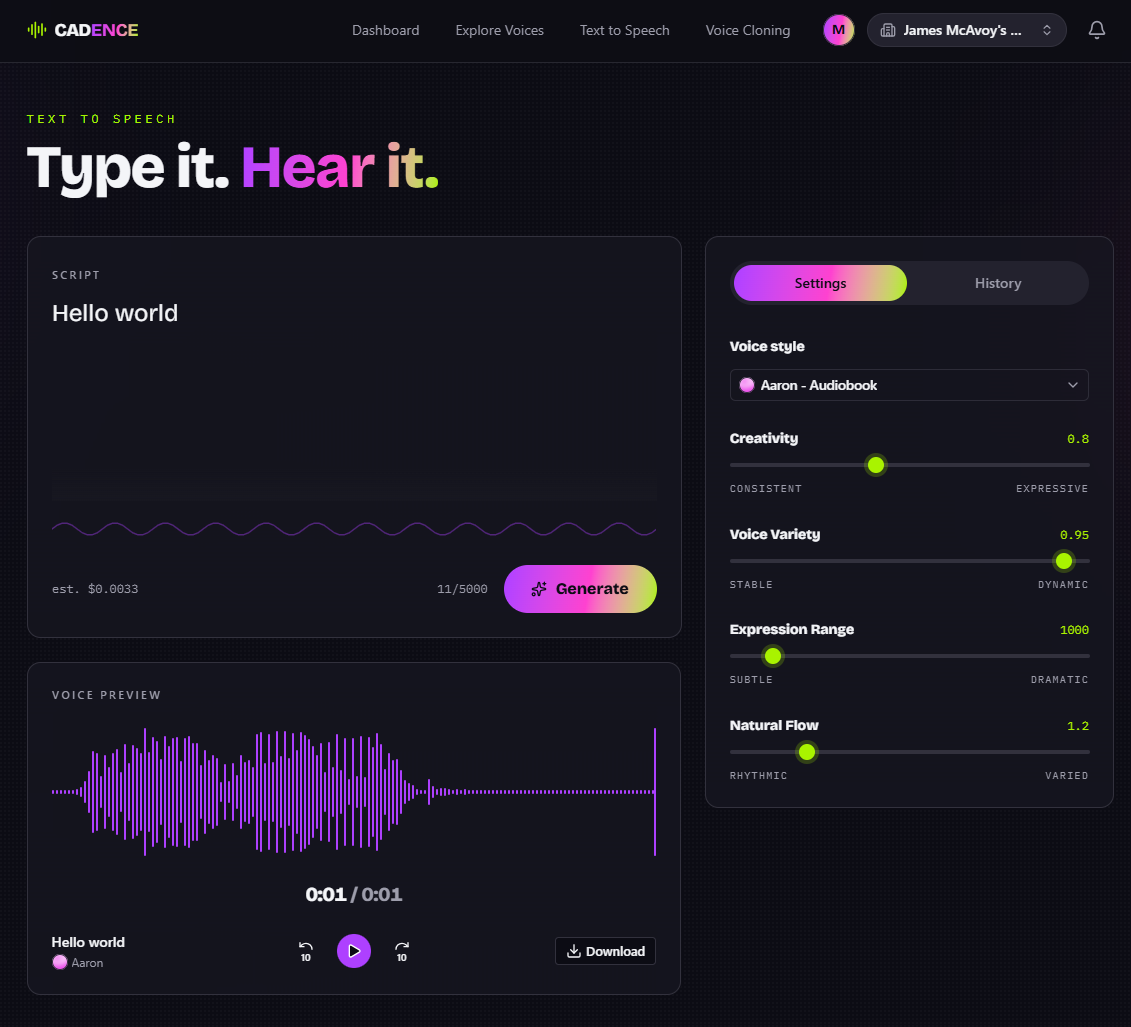
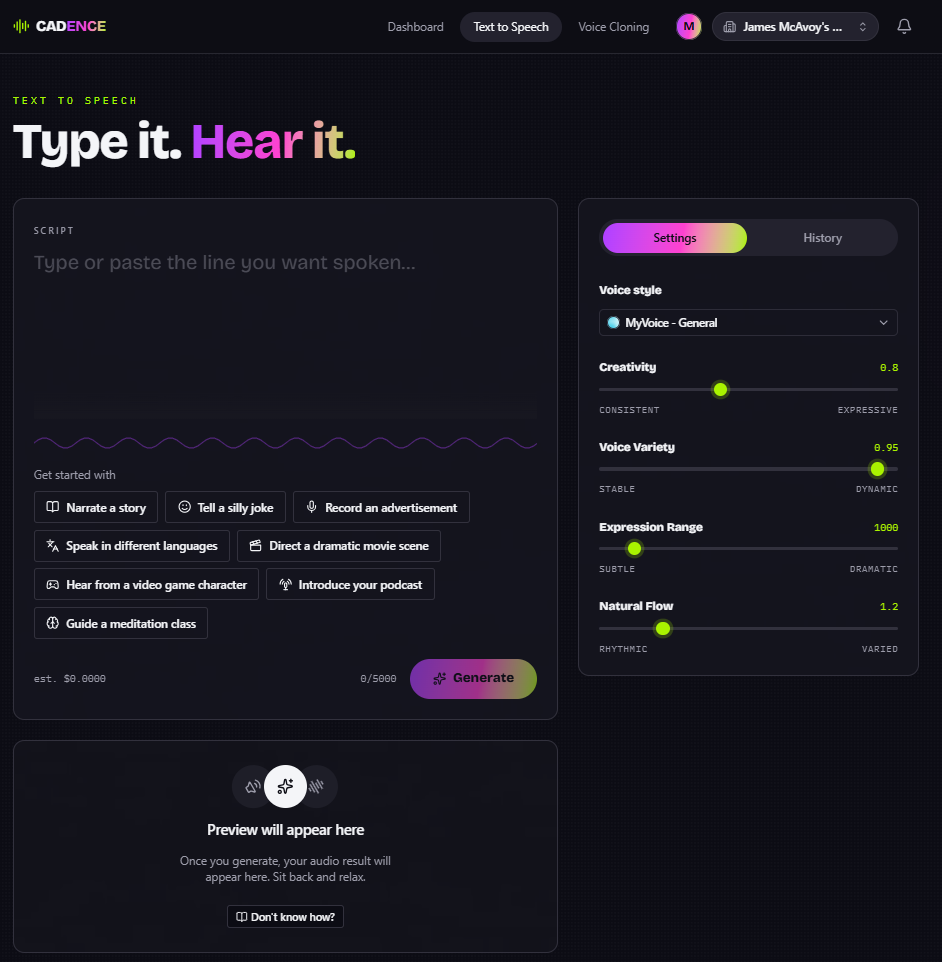
docs: refresh README and update screenshots
Brings the README back in line with what's actually shipped: Sentry
moved from "planned" to the real tech stack, adds the voice
library/custom-voice-creation/dashboard features, documents the
_components/_state (route-private) vs components/ (shared) convention,
and fills in the project-structure tree with app/voices, components/,
and hooks/. Also adds a screenshot of the custom voice creation dialog
and refreshes the text-to-speech studio screenshot.

diff --git a/README.md b/README.md
@@ -4,14 +4,16 @@ Cadence is a text-to-speech SaaS platform built on Next.js. It lets organization
 
 ## Screenshots
 
-| Sign up | Text to speech studio |
-| --- | --- |
-| ![Sign up screen](public/login_screen.png) | ![Text to speech screen](public/text_to_speech_screen.png) |
+| Sign up | Text to speech studio | Create custom voice |
+| --- | --- | --- |
+| ![Sign up screen](public/login_screen.png) | ![Text to speech screen](public/text_to_speech_screen.png) | ![Create custom voice dialog](public/create-voice.png) |
 
 ## Features
 
 - **Text-to-speech generation** — turn text into speech using system voices or custom cloned voices, with fine-grained control over temperature, top-p, top-k, and repetition penalty.
-- **Voice library** — system voices (seeded) and organization-owned custom voices, categorized by use case (audiobook, conversational, customer service, narrative, podcast, and more).
+- **Voice library** — browse system voices (seeded) and your organization's custom voices, searchable and categorized by use case (audiobook, conversational, customer service, narrative, podcast, and more).
+- **Custom voice creation** — clone a voice by uploading an audio sample or recording one in the browser.
+- **Dashboard** — a quick-generate box that hands off to the full studio, plus a live preview of your most recent render.
 - **Organizations & collaboration** — personal orgs, org switching, member invites, and an in-app notification feed for events like invitations.
 - **Audio storage & playback** — generated audio is stored in S3-compatible object storage and streamed back for playback and download.
 - **Authentication** — email/password auth with email verification and password reset, backed by Neon Auth.
@@ -24,9 +26,9 @@ Cadence is a text-to-speech SaaS platform built on Next.js. It lets organization
 - **Auth:** [Neon Auth](https://neon.tech/docs/guides/auth) (`@neondatabase/auth`)
 - **Object storage:** S3-compatible storage via `@aws-sdk/client-s3`
 - **TTS engine:** [Chatterbox](https://github.com/resemble-ai/chatterbox) voice-cloning model, served from a [Modal](https://modal.com) endpoint (`chatterbox_tts.py`)
-- **UI:** Tailwind CSS, Radix UI / shadcn-based components, `wavesurfer.js` for waveform playback
-- **Error monitoring:** [Sentry](https://sentry.io) *(planned)*
-- **Billing:** [Polar](https://polar.sh) and [Stripe](https://stripe.com) *(planned)*
+- **UI:** Tailwind CSS, Radix UI / shadcn-based components, `wavesurfer.js` for waveform playback, `vaul` for mobile drawers
+- **Error monitoring:** [Sentry](https://sentry.io) — request/error capture plus structured `Sentry.logger` calls around TTS generation, uploads, and voice creation
+- **Billing:** [Polar](https://polar.sh) and [Stripe](https://stripe.com) *(planned — not implemented yet)*
 
 ## Getting started
 
@@ -66,6 +68,7 @@ Cadence is a text-to-speech SaaS platform built on Next.js. It lets organization
    | `S3_ACCESS_KEY_ID` | S3 access key ID |
    | `S3_SECRET_ACCESS_KEY` | S3 secret access key |
    | `S3_BUCKET_NAME` | Name of the S3 bucket |
+   | `SENTRY_AUTH_TOKEN` | Sentry auth token, used to upload source maps at build time |
 
 3. Push the database schema and seed system voices:
 
@@ -100,27 +103,35 @@ Cadence is a text-to-speech SaaS platform built on Next.js. It lets organization
 ## Project structure
 
 ```
-app/                  Next.js App Router pages and routes
-  api/                Route handlers (auth, tRPC, audio streaming)
-  auth/               Sign-in / sign-up
-  dashboard/          Dashboard
-  text-to-speech/     Text-to-speech studio (script, voice selection, settings)
-trpc/                 tRPC router setup and procedures (generations, voices, organizations, notifications)
+app/                    Next.js App Router pages and routes
+  api/                  Route handlers (auth, tRPC, audio streaming, voice upload/create)
+  auth/                 Sign-in / sign-up
+  dashboard/            Dashboard (quick-generate + latest render)
+  text-to-speech/       Text-to-speech studio (script, voice selection, settings)
+  voices/               Voice library (browse/search, create a custom voice)
+components/             Shared UI, used across more than one route
+  navbar.tsx, *-dialog.tsx  App chrome and shared dialogs (org switcher, notifications, invites)
+  ui/                   shadcn/Radix-based primitives (button, dialog, drawer, select, ...)
+  voice-avatar/         Deterministic per-voice avatar
+  voice-preview/        Playback UI shared by the studio and dashboard (waveform panel, mobile bar, empty state)
+hooks/                  Shared hooks (audio playback/recording, wavesurfer, mobile breakpoint, form)
+trpc/                   tRPC router setup and procedures (generations, voices, organizations, notifications)
 lib/
-  auth/               Auth client/server config and organization helpers
-  db/                 Drizzle schema and DB client
-  constants/          Shared constants (voice categories, sliders, etc.)
-  validations/        Zod validation schemas
-  s3.ts               S3 client/helpers
+  auth/                 Auth client/server config and organization helpers
+  db/                   Drizzle schema and DB client
+  constants/            Shared constants (voice categories, sliders, etc.)
+  validations/          Zod validation schemas
+  s3.ts                 S3 client/helpers
   chatterbox-client.ts  Client for the Chatterbox TTS API
-drizzle/              SQL migrations and schema snapshots
-scripts/              One-off scripts (voice seeding, API sync)
-chatterbox_tts.py     Modal app serving the Chatterbox TTS model
+drizzle/                SQL migrations and schema snapshots
+scripts/                One-off scripts (voice seeding, API sync)
+chatterbox_tts.py       Modal app serving the Chatterbox TTS model
 ```
+
+Within a route folder, `_components/` and `_state/` hold pieces used only by that route (Next.js ignores underscore-prefixed folders for routing); anything reused across routes lives in the top-level `components/` or `hooks/` instead — that's why, e.g., the voice preview player moved out of `text-to-speech/` once the dashboard needed it too.
 
 ## Roadmap
 
-- **Sentry** — error tracking and performance monitoring across the app.
 - **Polar** — merchant-of-record billing and subscription management.
 - **Stripe** — payment processing for plans/credits.
 
